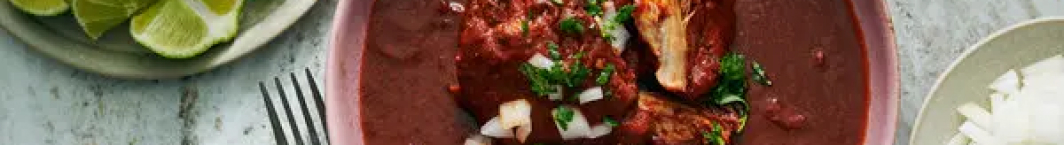
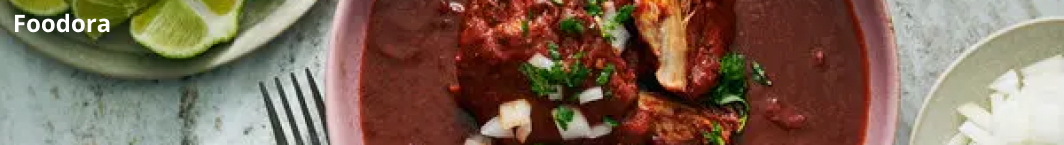
fixed footer

Changed region(s): [[0.0, 0.0828, 0.1241, 0.2207]]

diff --git a/style.css b/style.css
@@ -68,11 +68,6 @@ span {
   background-position: 0% 20%;
 }
 
-hr {
-  border-top: 3px solid #1E2D37;
-  position: relative;
-}
-
 header {
   /* Utseende */
   background-color: white;
@@ -239,6 +234,69 @@ header section:nth-child(2) article input[type=text] {
   margin-left: 10px;
 }
 
+footer .img5 {
+  width: 100%;
+  height: 145px;
+}
+
+.column2-2-1 {
+  height: 126px;
+  width: 100%;
+  margin-bottom: 9px;
+}
+
+.img2 {
+  width: 100%;
+  height: auto;
+}
+
+.container2 {
+  position: absolute;
+  left: 0;
+  right: 0;
+  bottom: 4px;
+  top: 155px;
+  background: rgba(0, 0, 0, 0.7);
+}
+
+.readmore {
+  position: relative;
+  text-align: right;
+}
+
+.readmore2 {
+  position: absolute;
+  right: 10px;
+  bottom: 10px;
+}
+
+.readmore button {
+  border: none;
+  font-size: 12px;
+  cursor: pointer;
+  background-image: url(./Images/Arrow.svg);
+  background-repeat: no-repeat;
+  background-size: 100%;
+  background-color: transparent;
+  text-align: left;
+  width: 130px;
+  height: 20px;
+  background-position: 0% 20%;
+}
+
+.readmore span {
+  margin-left: -5px;
+}
+
+footer {
+  width: 100%;
+}
+footer hr {
+  position: relative;
+  width: 100%;
+  height: 1px;
+  background-color: #1E2D37;
+}
 footer .img5 {
   width: 100%;
   height: 145px;

diff --git a/style.scss b/style.scss
@@ -75,10 +75,6 @@ background-position: 0% 20%;
 
 
 
-hr {
-border-top: 3px solid #1E2D37;
-position: relative;
-}
 
 
 header {
@@ -343,15 +339,22 @@ background-position: 0% 20%;
 margin-left: -5px;
 }
 
-hr {
-  border-top: 3px solid #1E2D37;
-  position: relative;
+footer {
+  width: 100%;
+  hr {
+    position: relative;
+    width: 100%;
+    height: 1px;
+    background-color: #1E2D37;
+  }
+
+  .img5 {
+    width: 100%;
+    height: 145px;
+  }
+
 }
 
-.img5 {
-  width: 100%;
-  height: 145px;
-}
 
 @media (max-width: 376px) {
 

diff --git a/index.html b/index.html
@@ -126,10 +126,10 @@
 </section>
 </section>
 </section>
-<hr>
+
 <footer>
-  <img class="img5" src="Images/Footer.jpg" alt="Foodora">
-  <h2>Foodora</h2>
+  <hr>
+  <img class="img5" src="Images/Footer.jpg" alt="Ad for Foodora">
 </footer>
 <!-- This is for closing the flexcontainer -->
 </section>
